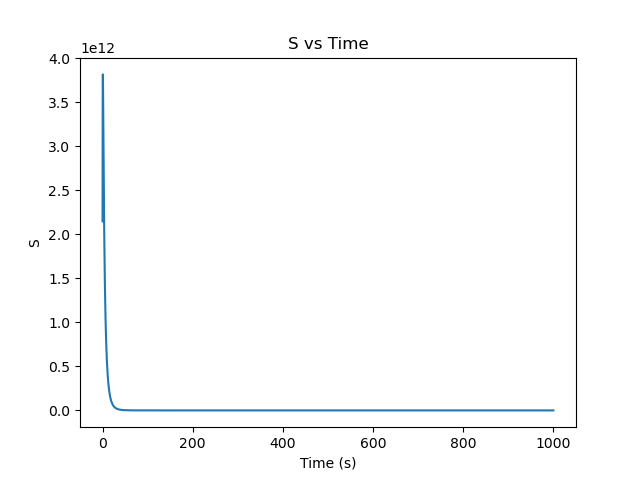
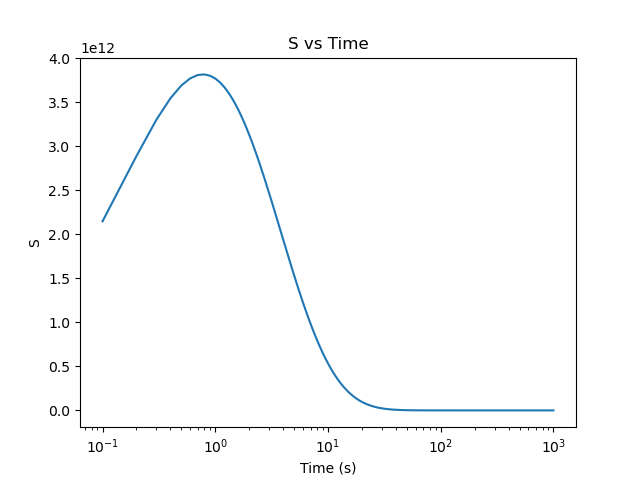
changed some to log plot

diff --git a/Midterm1/q3/c.py b/Midterm1/q3/c.py
@@ -30,6 +30,7 @@ plt.plot(t, S)
 plt.xlabel("Time (s)")
 plt.ylabel("S")
 plt.title("S vs Time")
+plt.xscale("log")
 plt.savefig(os.path.join(dir, "S_vs_time.png"))
 plt.clf()  # Clear figure
 
@@ -52,6 +53,7 @@ plt.plot(S, x)
 plt.xlabel("S")
 plt.ylabel("x")
 plt.title("x vs S")
+plt.xscale("log")
 plt.savefig(os.path.join(dir, "x_vs_S.png"))
 plt.clf()
 
